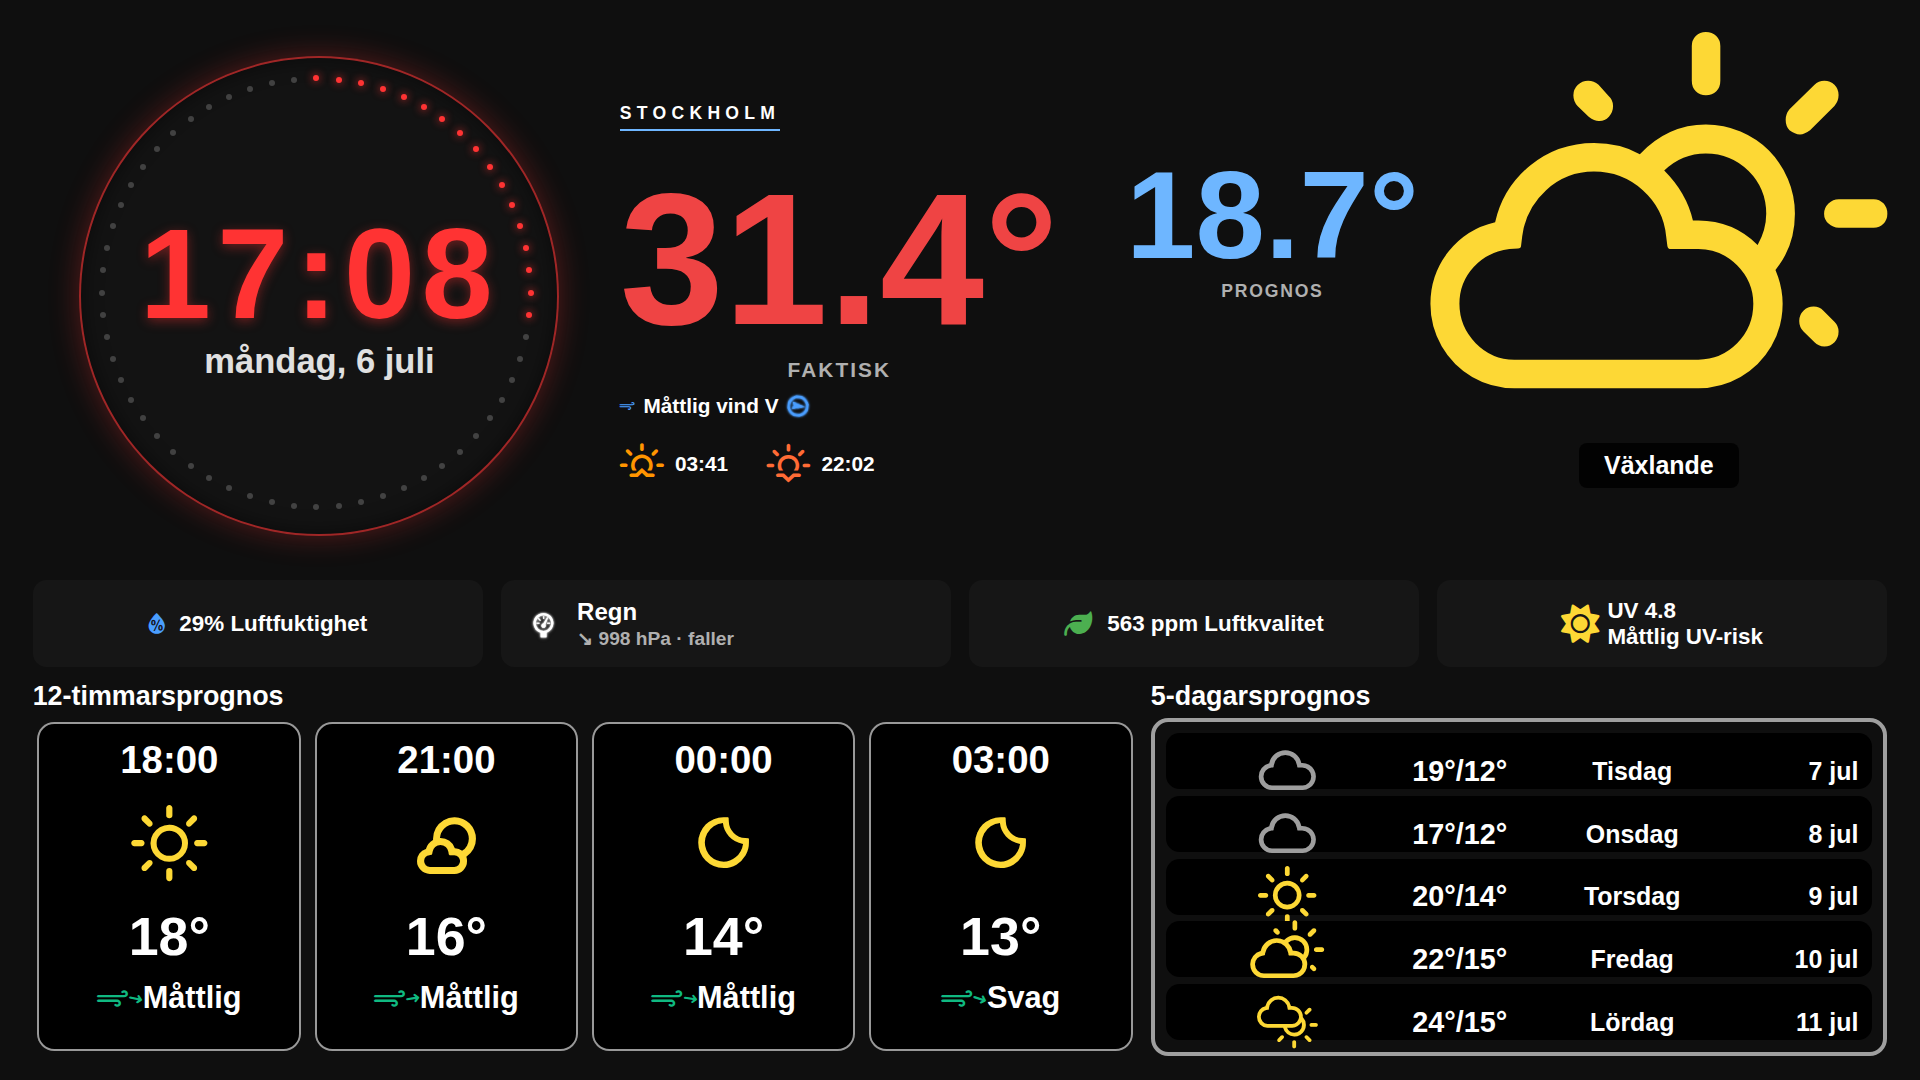
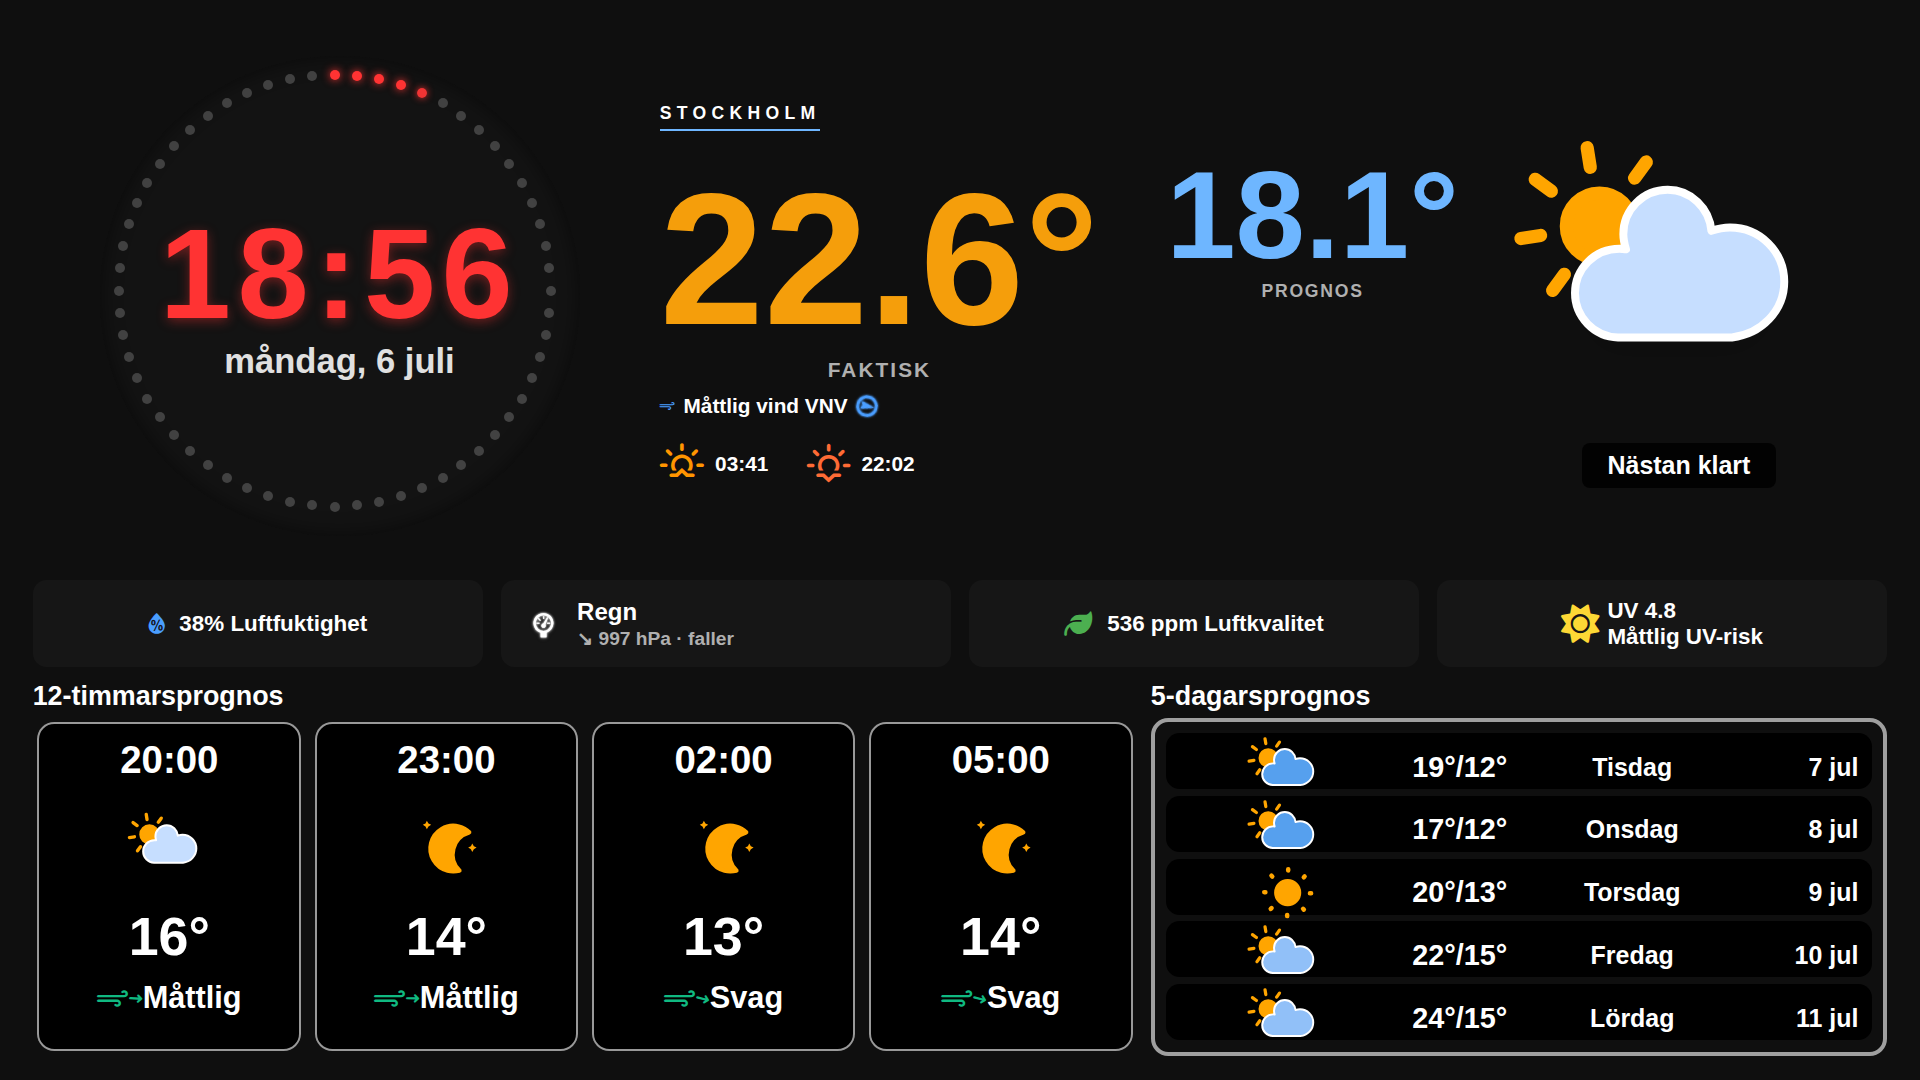
README: version 3.2.4 + ny skärmdump (amcharts, större sekundprickar)
Gamla skärmdumpen arkiverad som screenshots/screenshot2-v3.2.0-arkiv.png.

diff --git a/readme.md b/readme.md
@@ -1,6 +1,6 @@
 # 🌤️ Flask Weather Dashboard - Komplett Guide
 
-**Version 3.2.0** · [Changelog](CHANGELOG.md)
+**Version 3.2.4** · [Changelog](CHANGELOG.md)
 
 **GitHub Repository:** [https://github.com/cgillinger/flask-weather](https://github.com/cgillinger/flask-weather)
 